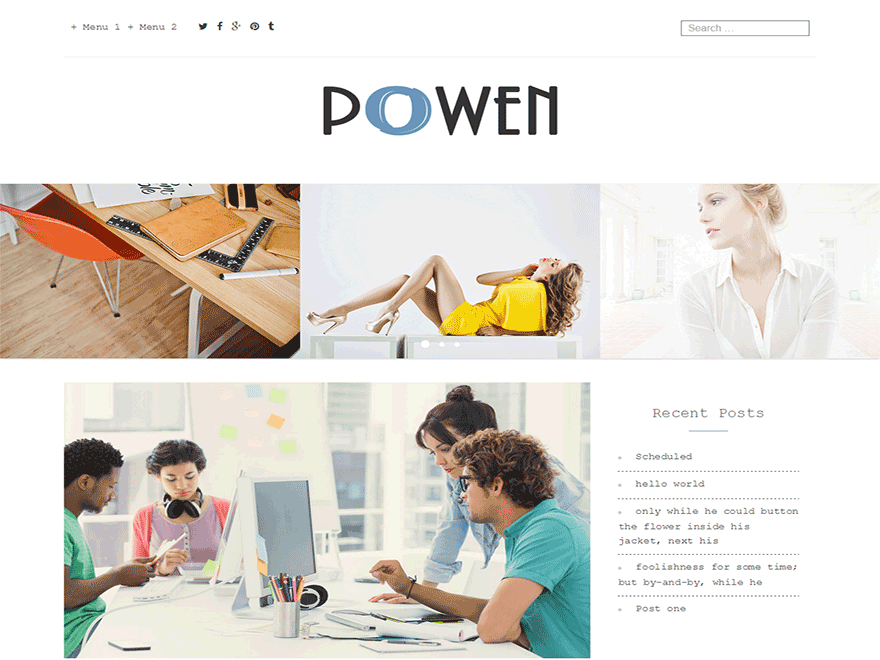
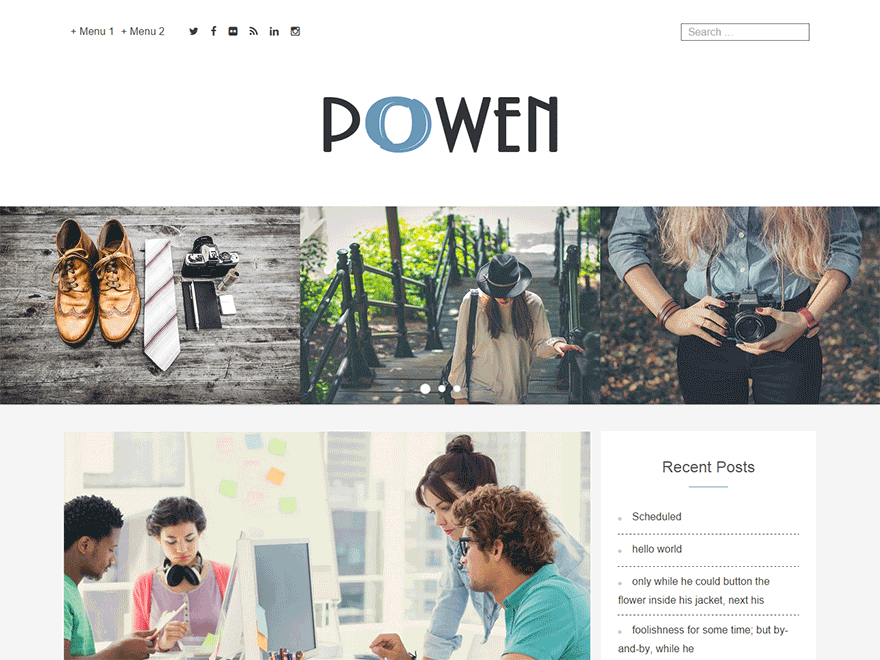
Screenshot Changed

diff --git a/lib/breadcrumb.php b/lib/breadcrumb.php
@@ -2,36 +2,36 @@
 function powen_breadcrumb () {
      
     // Settings
-    $powen_separator  = '&gt;';
-    $powen_id         = 'breadcrumbs';
-    $powen_class      = 'breadcrumbs';
-    $powen_home_title = 'Homepage';
+    $separator  = '&gt;';
+    $id         = 'breadcrumbs';
+    $class      = 'breadcrumbs';
+    $home_title = 'Homepage';
      
     // Get the query & post information
     global $post,$wp_query;
-    $powen_category = get_the_category();
+    $category = get_the_category();
      
     // Build the breadcrums
-    echo '<ul id="' . $powen_id . '" class="' . $powen_class . '">';
+    echo '<ul id="' . $id . '" class="' . $class . '">';
      
     // Do not display on the homepage
     if ( !is_front_page() ) {
          
         // Home page
-        echo '<li class="item-home"><a class="bread-link bread-home" href="' . get_home_url() . '" title="' . $powen_home_title . '">' . $powen_home_title . '</a></li>';
-        echo '<li class="separator separator-home"> ' . $powen_separator . ' </li>';
+        echo '<li class="item-home"><a class="bread-link bread-home" href="' . get_home_url() . '" title="' . $home_title . '">' . $home_title . '</a></li>';
+        echo '<li class="separator separator-home"> ' . $separator . ' </li>';
          
         if ( is_single() ) {
              
             // Single post (Only display the first category)
-            echo '<li class="item-cat item-cat-' . $powen_category[0]->term_id . ' item-cat-' . $powen_category[0]->category_nicename . '"><a class="bread-cat bread-cat-' . $powen_category[0]->term_id . ' bread-cat-' . $powen_category[0]->category_nicename . '" href="' . get_category_link($powen_category[0]->term_id ) . '" title="' . $powen_category[0]->cat_name . '">' . $powen_category[0]->cat_name . '</a></li>';
-            echo '<li class="separator separator-' . $powen_category[0]->term_id . '"> ' . $powen_separator . ' </li>';
+            echo '<li class="item-cat item-cat-' . $category[0]->term_id . ' item-cat-' . $category[0]->category_nicename . '"><a class="bread-cat bread-cat-' . $category[0]->term_id . ' bread-cat-' . $category[0]->category_nicename . '" href="' . get_category_link($category[0]->term_id ) . '" title="' . $category[0]->cat_name . '">' . $category[0]->cat_name . '</a></li>';
+            echo '<li class="separator separator-' . $category[0]->term_id . '"> ' . $separator . ' </li>';
             echo '<li class="item-current item-' . $post->ID . '"><strong class="bread-current bread-' . $post->ID . '" title="' . get_the_title() . '">' . get_the_title() . '</strong></li>';
              
         } else if ( is_category() ) {
              
             // Category page
-            echo '<li class="item-current item-cat-' . $powen_category[0]->term_id . ' item-cat-' . $powen_category[0]->category_nicename . '"><strong class="bread-current bread-cat-' . $powen_category[0]->term_id . ' bread-cat-' . $powen_category[0]->category_nicename . '">' . $powen_category[0]->cat_name . '</strong></li>';
+            echo '<li class="item-current item-cat-' . $category[0]->term_id . ' item-cat-' . $category[0]->category_nicename . '"><strong class="bread-current bread-cat-' . $category[0]->term_id . ' bread-cat-' . $category[0]->category_nicename . '">' . $category[0]->cat_name . '</strong></li>';
              
         } else if ( is_page() ) {
              
@@ -47,7 +47,7 @@ function powen_breadcrumb () {
                 // Parent page loop
                 foreach ( $anc as $ancestor ) {
                     $parents .= '<li class="item-parent item-parent-' . $ancestor . '"><a class="bread-parent bread-parent-' . $ancestor . '" href="' . get_permalink($ancestor) . '" title="' . get_the_title($ancestor) . '">' . get_the_title($ancestor) . '</a></li>';
-                    $parents .= '<li class="separator separator-' . $ancestor . '"> ' . $powen_separator . ' </li>';
+                    $parents .= '<li class="separator separator-' . $ancestor . '"> ' . $separator . ' </li>';
                 }
                  
                 // Display parent pages
@@ -82,11 +82,11 @@ function powen_breadcrumb () {
              
             // Year link
             echo '<li class="item-year item-year-' . get_the_time('Y') . '"><a class="bread-year bread-year-' . get_the_time('Y') . '" href="' . get_year_link( get_the_time('Y') ) . '" title="' . get_the_time('Y') . '">' . get_the_time('Y') . ' Archives</a></li>';
-            echo '<li class="separator separator-' . get_the_time('Y') . '"> ' . $powen_separator . ' </li>';
+            echo '<li class="separator separator-' . get_the_time('Y') . '"> ' . $separator . ' </li>';
              
             // Month link
             echo '<li class="item-month item-month-' . get_the_time('m') . '"><a class="bread-month bread-month-' . get_the_time('m') . '" href="' . get_month_link( get_the_time('Y'), get_the_time('m') ) . '" title="' . get_the_time('M') . '">' . get_the_time('M') . ' Archives</a></li>';
-            echo '<li class="separator separator-' . get_the_time('m') . '"> ' . $powen_separator . ' </li>';
+            echo '<li class="separator separator-' . get_the_time('m') . '"> ' . $separator . ' </li>';
              
             // Day display
             echo '<li class="item-current item-' . get_the_time('j') . '"><strong class="bread-current bread-' . get_the_time('j') . '"> ' . get_the_time('jS') . ' ' . get_the_time('M') . ' Archives</strong></li>';
@@ -97,7 +97,7 @@ function powen_breadcrumb () {
              
             // Year link
             echo '<li class="item-year item-year-' . get_the_time('Y') . '"><a class="bread-year bread-year-' . get_the_time('Y') . '" href="' . get_year_link( get_the_time('Y') ) . '" title="' . get_the_time('Y') . '">' . get_the_time('Y') . ' Archives</a></li>';
-            echo '<li class="separator separator-' . get_the_time('Y') . '"> ' . $powen_separator . ' </li>';
+            echo '<li class="separator separator-' . get_the_time('Y') . '"> ' . $separator . ' </li>';
              
             // Month display
             echo '<li class="item-month item-month-' . get_the_time('m') . '"><strong class="bread-month bread-month-' . get_the_time('m') . '" title="' . get_the_time('M') . '">' . get_the_time('M') . ' Archives</strong></li>';

diff --git a/lib/pagination.php b/lib/pagination.php
@@ -1,38 +1,38 @@
 <?php  
 //Pagination
-function powen_pagination($powen_pages = '', $powen_range = 4)
+function powen_pagination($pages = '', $range = 4)
 {  
-     $powen_showitems = ($powen_range * 2)+1;  
+     $showitems = ($range * 2)+1;  
  
      global $powen_paged;
      if(empty($powen_paged)) $powen_paged = 1;
  
-     if($powen_pages == '')
+     if($pages == '')
      {
          global $wp_query;
-         $powen_pages = $wp_query->max_num_pages;
-         if(!$powen_pages)
+         $pages = $wp_query->max_num_pages;
+         if(!$pages)
          {
-             $powen_pages = 1;
+             $pages = 1;
          }
      }   
  
-     if(1 != $powen_pages)
+     if(1 != $pages)
      {
-         echo "<div class=\"pagination\"><span>Page ".$powen_paged." of ".$powen_pages."</span>";
-         if($powen_paged > 2 && $powen_paged > $powen_range+1 && $powen_showitems < $powen_pages) echo "<a href='".get_pagenum_link(1)."'>&laquo; First</a>";
-         if($powen_paged > 1 && $powen_showitems < $powen_pages) echo "<a href='".get_pagenum_link($powen_paged - 1)."'class='page-previous'>&lsaquo; Previous</a>";
+         echo "<div class=\"pagination\"><span>Page ".$powen_paged." of ".$pages."</span>";
+         if($powen_paged > 2 && $powen_paged > $range+1 && $showitems < $pages) echo "<a href='".get_pagenum_link(1)."'>&laquo; First</a>";
+         if($powen_paged > 1 && $showitems < $pages) echo "<a href='".get_pagenum_link($powen_paged - 1)."'class='page-previous'>&lsaquo; Previous</a>";
  
-         for ($i=1; $i <= $powen_pages; $i++)
+         for ($i=1; $i <= $pages; $i++)
          {
-             if (1 != $powen_pages &&( !($i >= $powen_paged+$powen_range+1 || $i <= $powen_paged-$powen_range-1) || $powen_pages <= $powen_showitems ))
+             if (1 != $pages &&( !($i >= $powen_paged+$range+1 || $i <= $powen_paged-$range-1) || $pages <= $showitems ))
              {
                  echo ($powen_paged == $i)? "<span class=\"current\">".$i."</span>":"<a href='".get_pagenum_link($i)."' class=\"inactive\">".$i."</a>";
              }
          }
  
-         if ($powen_paged < $powen_pages && $powen_showitems < $powen_pages) echo "<a href=\"".get_pagenum_link($powen_paged + 1)."\" class='page-next'>Next &rsaquo;</a>";  
-         if ($powen_paged < $powen_pages-1 &&  $powen_paged+$powen_range-1 < $powen_pages && $powen_showitems < $powen_pages) echo "<a href='".get_pagenum_link($powen_pages)."' class='page-last'>Last &raquo;</a>";
+         if ($powen_paged < $pages && $showitems < $pages) echo "<a href=\"".get_pagenum_link($powen_paged + 1)."\" class='page-next'>Next &rsaquo;</a>";  
+         if ($powen_paged < $pages-1 &&  $powen_paged+$range-1 < $pages && $showitems < $pages) echo "<a href='".get_pagenum_link($pages)."' class='page-last'>Last &raquo;</a>";
          echo "</div>\n";
      }
 }

diff --git a/template-parts/banner.php b/template-parts/banner.php
@@ -9,35 +9,35 @@ $powen_default_slides =  array(
         array
             (
 				'title'       => __('Demo Post One', 'powen'),
-				'link' 		  => esc_url( 'home_url( '/' )' ),
+				'link' 		  => '',
 				'description' => __('Dolores porro, architecto totam, animi, pariatur qui suscipit doloribus saepe temporibus magni, ducimus ut fugit eius. Consectetur saepe nemo, optio, ut deleniti illum. Velit assumenda amet', 'powen'),
 				'image'       => esc_url(get_template_directory_uri() . '/images/slides/slide5.jpg'),
             ),
         array
             (
 				'title'       => __('Demo Post Two', 'powen'),
-				'link' 		  => esc_url( 'home_url( '/' )' ),
+				'link' 		  => '',
 				'description' => __('Soluta quidem sapiente, adipisci magni voluptatem necessitatibus voluptatum minima ipsa aliquam nobis rem officia autem odio dolorum laudantium. Minus voluptatum dicta tempora', 'powen'),
 				'image'       => esc_url(get_template_directory_uri() . '/images/slides/slide4.jpg'),
             ),
         array
             (
 				'title'       => __('Demo Post Three', 'powen'),
-				'link' 		  => esc_url( 'home_url( '/' )' ),
+				'link' 		  => '',
 				'description' => __('Explicabo doloribus neque id cupiditate consequuntur fugit, magnam itaque officiis possimus enim assumenda autem minus non similique vitae illum, perferendis optio, nemo vel tenetur', 'powen'),
 				'image'       => esc_url(get_template_directory_uri() . '/images/slides/slide3.jpg'),
             ),
         array
             (
 				'title'       => __('Demo Post Four', 'powen'),
-				'link' 		  => esc_url( 'home_url( '/' )' ),
+				'link' 		  => '',
 				'description' => __('Cupiditate deleniti, enim natus magni. Harum asperiores, maxime ratione! Iusto velit quibusdam, quo vitae esse nihil cum aspernatur laboriosam fugiat eos tenetur distinctio autem', 'powen'),
 				'image'       => esc_url(get_template_directory_uri() . '/images/slides/slide2.jpg'),
             ),
         array
             (
 				'title'       => __('Demo Post Five', 'powen'),
-				'link' 		  => esc_url( 'home_url( '/' )' ),
+				'link' 		  => '',
 				'description' => __('Porro quae quo voluptates nobis, architecto sunt, delectus, earum temporibus eaque rem unde iste fuga. Esse quaerat quo, pariatur voluptas accusamus minima repudiandae fugit cupiditate', 'powen'),
 				'image'       => esc_url(get_template_directory_uri() . '/images/slides/slide1.jpg'),
             )

diff --git a/lib/admin/customizer/customizer.php b/lib/admin/customizer/customizer.php
@@ -189,7 +189,7 @@ class Powen_Customizer {
       ) );
 
       $wp_customize->add_setting('powen_mod[theme_font]', array(
-          'default'           => 'Courier New',
+          'default'           => 'Open Sans',
           'sanitize_callback' => 'powen_sanitize_choices',
           'transport'         => 'postMessage',
           'capability'        => 'edit_theme_options',

diff --git a/header.php b/header.php
@@ -25,7 +25,7 @@
 	<header id="masthead" class="site-header" role="banner">
 		<div class="powen-wrapper clear">
 
-			<div id="top-most-container" class="top-container sticky">
+			<div id="top-most-container" class="top-container">
 				<?php get_template_part( 'template-parts/top-most' ); ?>
 				<?php powen_social_media_icons(); ?>
 				<?php get_search_form(); ?>
